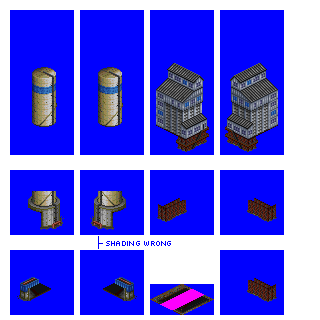
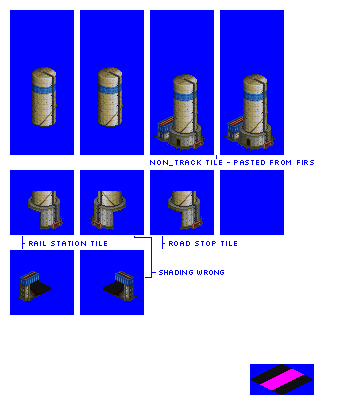
Change: improved appearance of cement silo rail station sprites

diff --git a/src/stations/cement_silo.py b/src/stations/cement_silo.py
@@ -8,29 +8,41 @@ def main(numeric_id):
     )
 
     facility_type.add_sprite(
-        id="sprite_silo",
+        id="cement_silo_upper",
         x_y_loc=(10, 10),
         dimensions=(64, 145),
         offsets=(-31, -114),
     )
     facility_type.add_sprite(
-        id="sprite_silo_base_front",
+        id="sprite_silo_base_rail_station_front",
         x_y_loc=(10, 170),
         dimensions=(64, 65),
         offsets=(-31, -34),
     )
     facility_type.add_sprite(
-        id="sprite_silo_base_rear",
+        id="sprite_silo_base_rail_station_rear",
         x_y_loc=(10, 250),
         dimensions=(64, 65),
         offsets=(-31, -34),
+    )
+    facility_type.add_sprite(
+        id="sprite_silo_pre_composed",
+        x_y_loc=(150, 10),
+        dimensions=(64, 145),
+        offsets=(-31, -114),
     )
 
     facility_type.add_spritelayout(
         id="cement_silo_spritelayout_1",
         ground_overlay_sprites=[],
-        rear_structure_sprites=["sprite_silo_base_rear"],
-        main_structure_sprites=["sprite_silo_base_front", "sprite_silo"],
+        rear_structure_sprites=["sprite_silo_base_rail_station_rear"],
+        main_structure_sprites=["sprite_silo_base_rail_station_front", "cement_silo_upper"],
+    )
+    facility_type.add_spritelayout(
+        id="cement_silo_spritelayout_2",
+        ground_overlay_sprites=[],
+        rear_structure_sprites=[],
+        main_structure_sprites=["sprite_silo_pre_composed"],
     )
 
     facility_type.add_rail_station(
@@ -51,7 +63,7 @@ def main(numeric_id):
             (
                 0,
                 0,
-                "cement_silo_spritelayout_1",
+                "cement_silo_spritelayout_2",
             ),
         ],
     )
